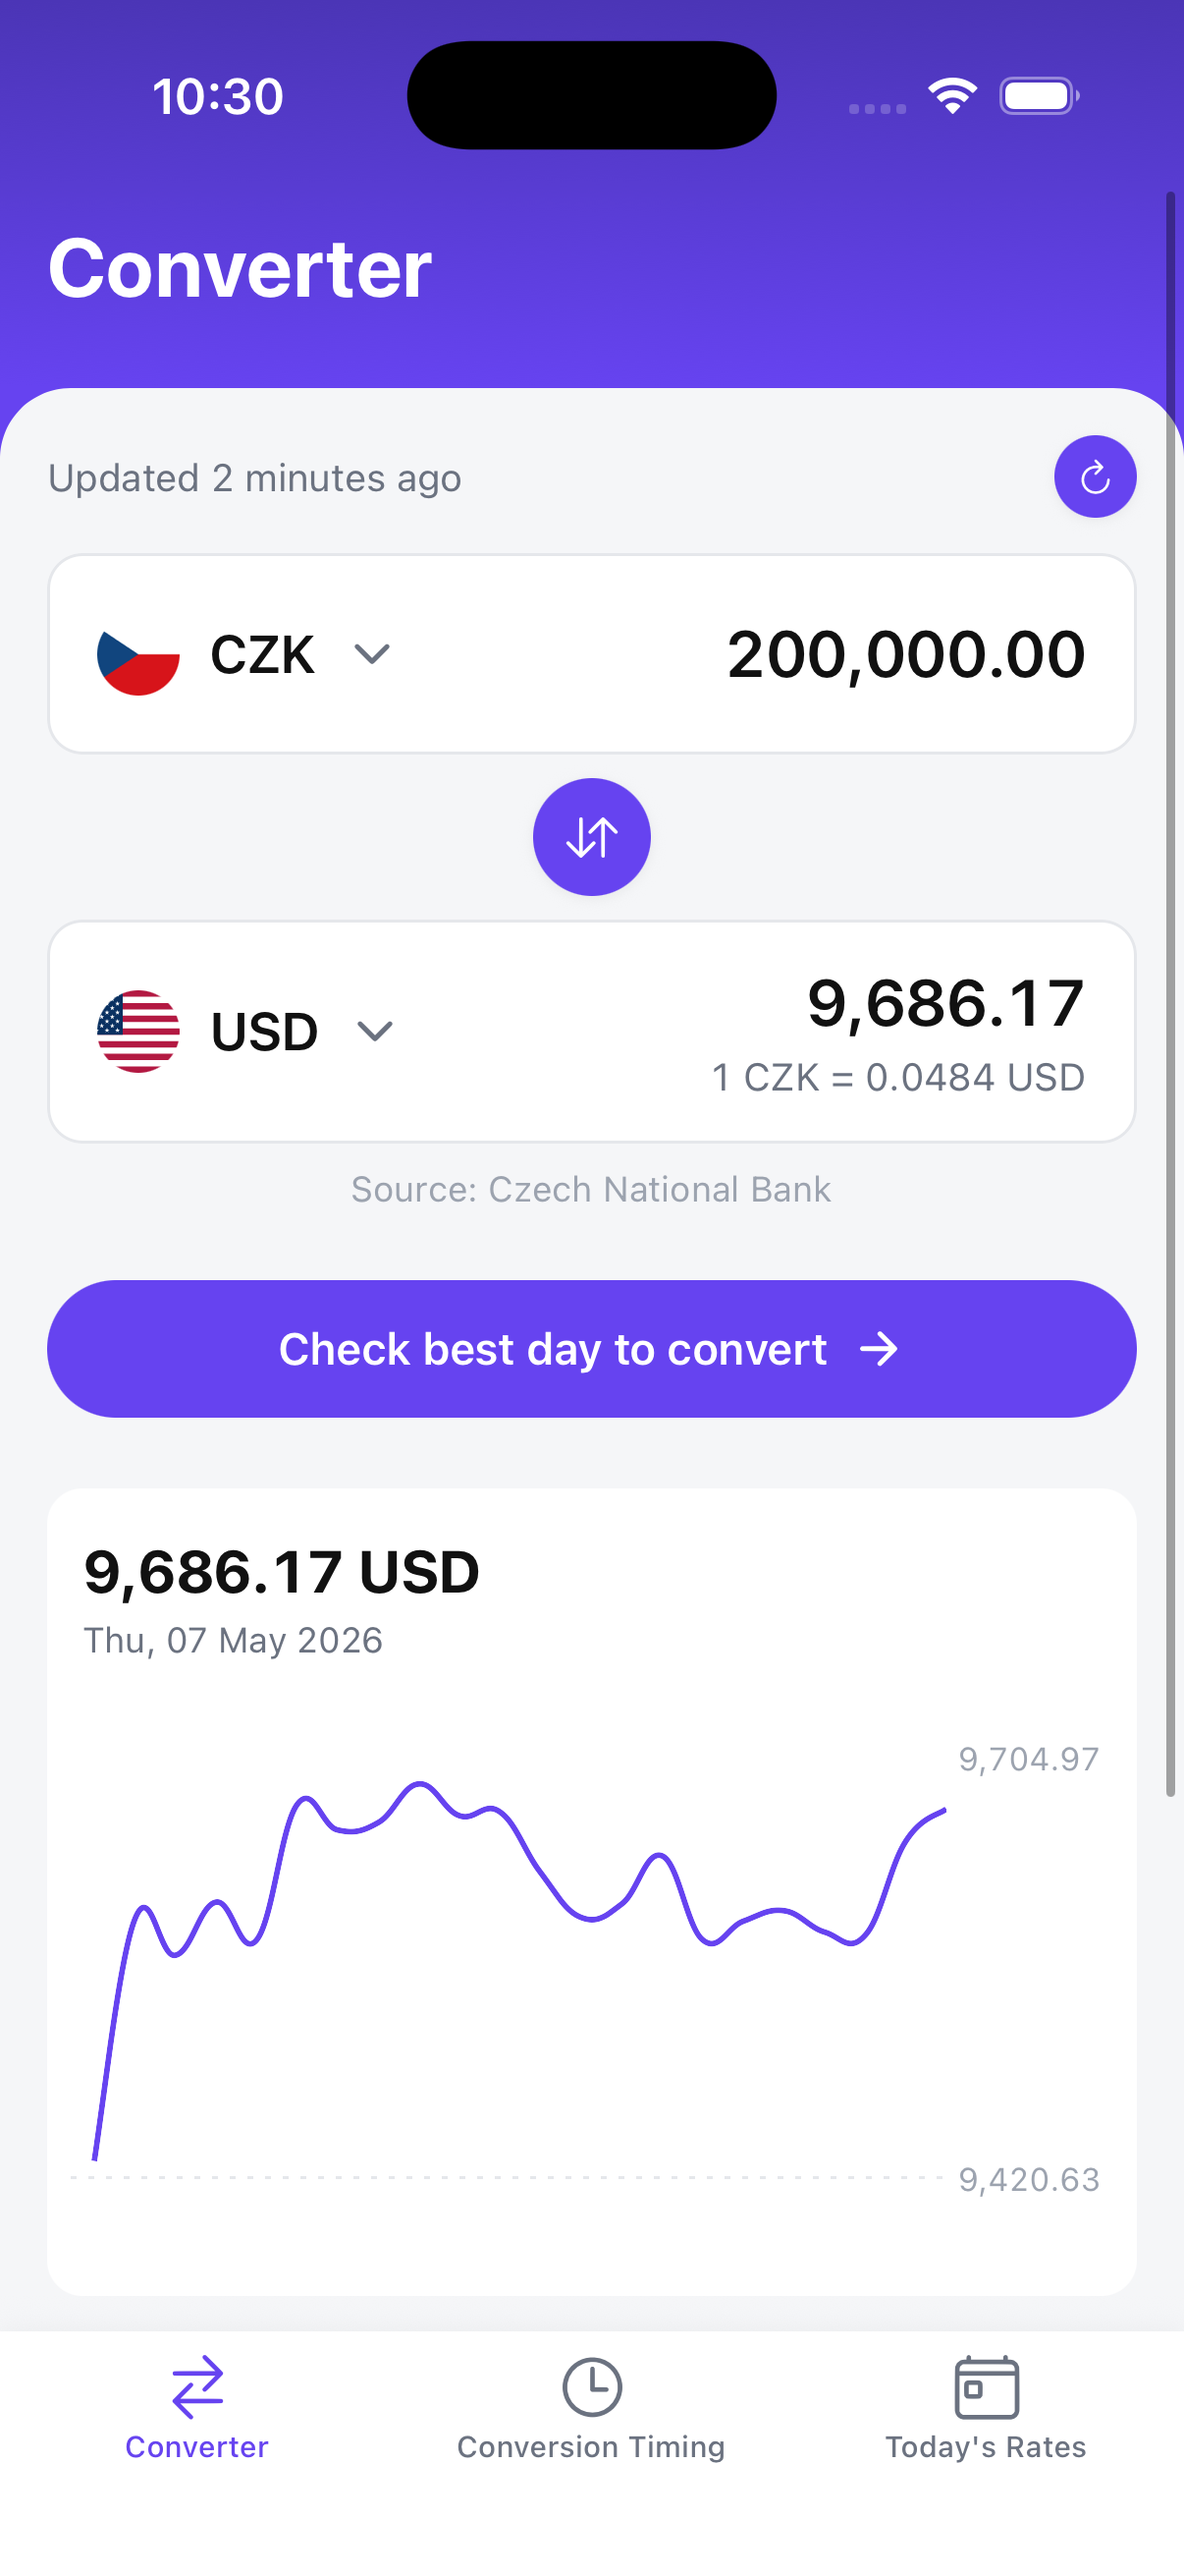
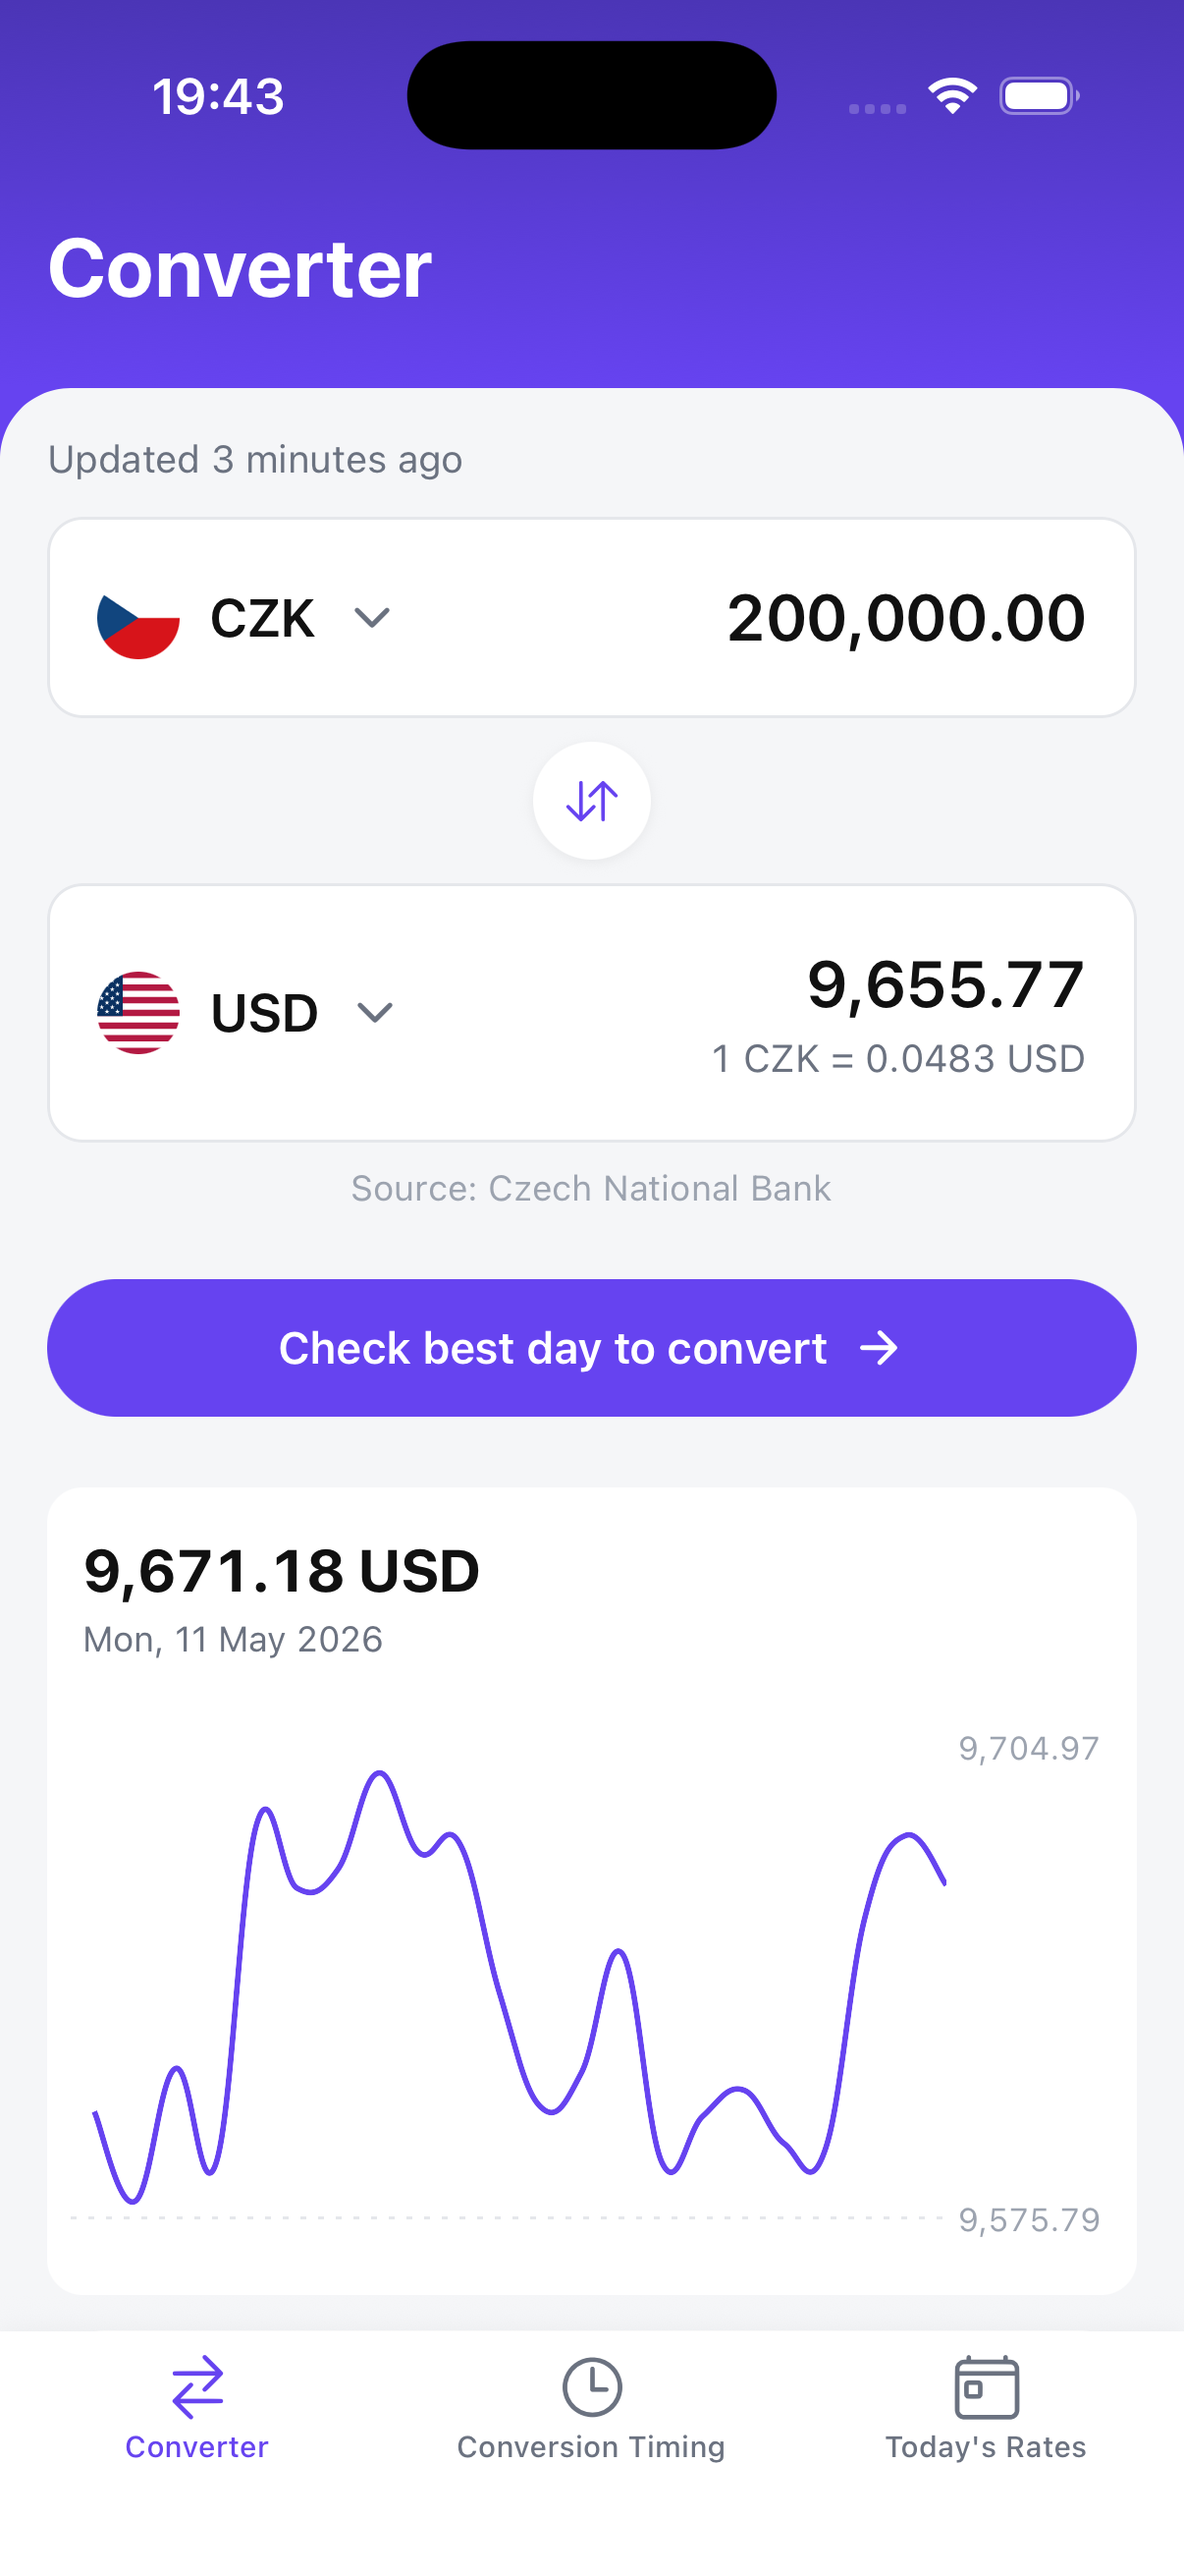
fix(rates): apply RefreshControl tintColor on lazy-mounted tabs
iOS silently drops UIRefreshControl tintColor when the hosting
UIScrollView mounts off-screen — true for every bottom-tab screen
except the initially focused one. Force a remount on first focus
via a focus-derived key.

Also drop empty styled.View wrappers (ConversionHistory.Wrap,
TodayScreen.Header), add a styled Backdrop for the keypad dismiss
press target, and reuse the existing Spacer in the chart skeleton.

diff --git a/src/screens/TodayScreen.tsx b/src/screens/TodayScreen.tsx
@@ -4,7 +4,11 @@ import styled from 'styled-components/native'
 import type { CNBDailyFixing, CurrencyRate } from '../api/cnb/types'
 import { CurrencyCard } from '../components/currency/CurrencyCard'
 import { LastUpdated } from '../components/LastUpdated'
-import { PullList, pullRefreshControl } from '../components/PullToRefresh'
+import {
+  PullList,
+  pullRefreshControl,
+  useFocusedKey,
+} from '../components/PullToRefresh'
 import { RateCard } from '../components/currency/RateCard'
 import { RatesScreenShell } from '../components/RatesScreenShell'
 import { StaggerFadeIn } from '../components/StaggerFadeIn'
@@ -82,20 +86,22 @@ function TodayContent({
     refetch()
   }, [refetch])
 
+  const refreshKey = useFocusedKey()
   const refreshControl = useMemo(
     () =>
       pullRefreshControl({
+        refreshKey,
         headerHeight,
         refreshing: isRefetching,
         onRefresh: handleRefresh,
       }),
-    [headerHeight, isRefetching, handleRefresh],
+    [refreshKey, headerHeight, isRefetching, handleRefresh],
   )
 
   const header = useMemo(() => {
     if (!reference) return null
     return (
-      <Header>
+      <>
         <LastUpdated date={data.date} updatedAt={dataUpdatedAt} />
         <SmallSpacer />
         <FieldLabel>Show rates in</FieldLabel>
@@ -106,7 +112,7 @@ function TodayContent({
           onCurrencyPress={() => setPickerOpen(true)}
         />
         <BigSpacer />
-      </Header>
+      </>
     )
   }, [data.date, dataUpdatedAt, reference, setPickerOpen])
 
@@ -146,8 +152,6 @@ function TodayContent({
     </>
   )
 }
-
-const Header = styled.View``
 
 const SmallSpacer = styled.View`
   height: ${spacing.sm}px;

diff --git a/src/components/PullToRefresh.tsx b/src/components/PullToRefresh.tsx
@@ -1,3 +1,5 @@
+import { useIsFocused } from '@react-navigation/native'
+import { useEffect, useState } from 'react'
 import {
   FlatList,
   Platform,
@@ -46,14 +48,32 @@ export function PullList<T>(props: FlatListProps<T> & HeaderOffset) {
   )
 }
 
-type PullRefreshControlProps = RefreshControlProps & { headerHeight: number }
+// Forces the RefreshControl to remount the first time the screen becomes
+// focused. Works around an iOS quirk where `tintColor` set on the native
+// UIRefreshControl is silently ignored when the hosting UIScrollView mounts
+// off-screen (every tab except the initially focused one).
+export function useFocusedKey() {
+  const isFocused = useIsFocused()
+  const [seenFocus, setSeenFocus] = useState(isFocused)
+  useEffect(() => {
+    if (isFocused) setSeenFocus(true)
+  }, [isFocused])
+  return seenFocus ? 'focused' : 'pending'
+}
+
+type PullRefreshControlProps = RefreshControlProps & {
+  headerHeight: number
+  refreshKey?: string
+}
 
 export function pullRefreshControl({
   headerHeight,
+  refreshKey,
   ...rest
 }: PullRefreshControlProps) {
   return (
     <RefreshControl
+      key={refreshKey}
       {...rest}
       tintColor="#FFFFFF"
       colors={[colors.accent]}

diff --git a/src/screens/ConverterScreen.tsx b/src/screens/ConverterScreen.tsx
@@ -7,7 +7,11 @@ import { ConversionForm } from '../components/ConversionForm'
 import { ConversionHistory } from '../components/ConversionHistory'
 import { CtaButton } from '../components/CtaButton'
 import { LastUpdated } from '../components/LastUpdated'
-import { PullScroll, pullRefreshControl } from '../components/PullToRefresh'
+import {
+  PullScroll,
+  pullRefreshControl,
+  useFocusedKey,
+} from '../components/PullToRefresh'
 import { RatesScreenShell } from '../components/RatesScreenShell'
 import { useHeaderHeight } from '../components/Screen'
 import { StaggerFadeIn } from '../components/StaggerFadeIn'
@@ -43,14 +47,16 @@ function ConverterContent({
 }) {
   const navigation = useNavigation<BottomTabNavigationProp<RootTabParamList>>()
   const headerHeight = useHeaderHeight()
+  const refreshKey = useFocusedKey()
   const refreshControl = useMemo(
     () =>
       pullRefreshControl({
+        refreshKey,
         headerHeight,
         refreshing: isRefetching,
         onRefresh: refetch,
       }),
-    [headerHeight, isRefetching, refetch],
+    [refreshKey, headerHeight, isRefetching, refetch],
   )
 
   return (

diff --git a/src/screens/TimingScreen.tsx b/src/screens/TimingScreen.tsx
@@ -3,7 +3,11 @@ import { useMemo } from 'react'
 import { ConversionForm } from '../components/ConversionForm'
 import { ConversionInsights } from '../components/ConversionInsights'
 import { LastUpdated } from '../components/LastUpdated'
-import { PullScroll, pullRefreshControl } from '../components/PullToRefresh'
+import {
+  PullScroll,
+  pullRefreshControl,
+  useFocusedKey,
+} from '../components/PullToRefresh'
 import { RatesScreenShell } from '../components/RatesScreenShell'
 import { useHeaderHeight } from '../components/Screen'
 import { StaggerFadeIn } from '../components/StaggerFadeIn'
@@ -37,14 +41,16 @@ function TimingContent({
   isRefetching: boolean
 }) {
   const headerHeight = useHeaderHeight()
+  const refreshKey = useFocusedKey()
   const refreshControl = useMemo(
     () =>
       pullRefreshControl({
+        refreshKey,
         headerHeight,
         refreshing: isRefetching,
         onRefresh: refetch,
       }),
-    [headerHeight, isRefetching, refetch],
+    [refreshKey, headerHeight, isRefetching, refetch],
   )
   return (
     <PullScroll

diff --git a/src/components/ConversionHistory.tsx b/src/components/ConversionHistory.tsx
@@ -88,7 +88,7 @@ export function ConversionHistory() {
   }
 
   return (
-    <Wrap testID={TEST_IDS.converter.history}>
+    <View testID={TEST_IDS.converter.history}>
       <Spacer />
       <YieldChart
         data={series}
@@ -100,7 +100,7 @@ export function ConversionHistory() {
       <PeriodSelector selected={days} onChange={setDays} />
       <Gap />
       {isPlaceholderData ? <StatsCardSkeleton /> : <StatsCard items={stats} />}
-    </Wrap>
+    </View>
   )
 }
 
@@ -121,15 +121,13 @@ const resolveSourceAmount = ({
   return convertCurrency(typed, targetRate, sourceRate)
 }
 
-const Wrap = styled.View``
-
 function ChartCardSkeleton() {
   return (
     <ChartCard>
       <Skeleton width={120} height={22} />
       <View style={{ height: 6 }} />
       <Skeleton width={90} height={12} />
-      <View style={{ height: 24 }} />
+      <Spacer />
       <Skeleton width="100%" height={140} borderRadius={radii.sm} />
     </ChartCard>
   )

diff --git a/src/components/calculator/CalculatorKeypad.tsx b/src/components/calculator/CalculatorKeypad.tsx
@@ -52,9 +52,8 @@ export function CalculatorKeypad({
       onRequestClose={commitAndClose}
     >
       <Layout>
-        <Pressable
+        <Backdrop
           testID={TEST_IDS.keypad.backdrop}
-          style={{ flex: 1 }}
           onPress={commitAndClose}
           accessibilityRole="button"
           accessibilityLabel="Dismiss keypad"
@@ -174,6 +173,10 @@ export function CalculatorKeypad({
 }
 
 const Layout = styled.View`
+  flex: 1;
+`
+
+const Backdrop = styled(Pressable)`
   flex: 1;
 `
 
